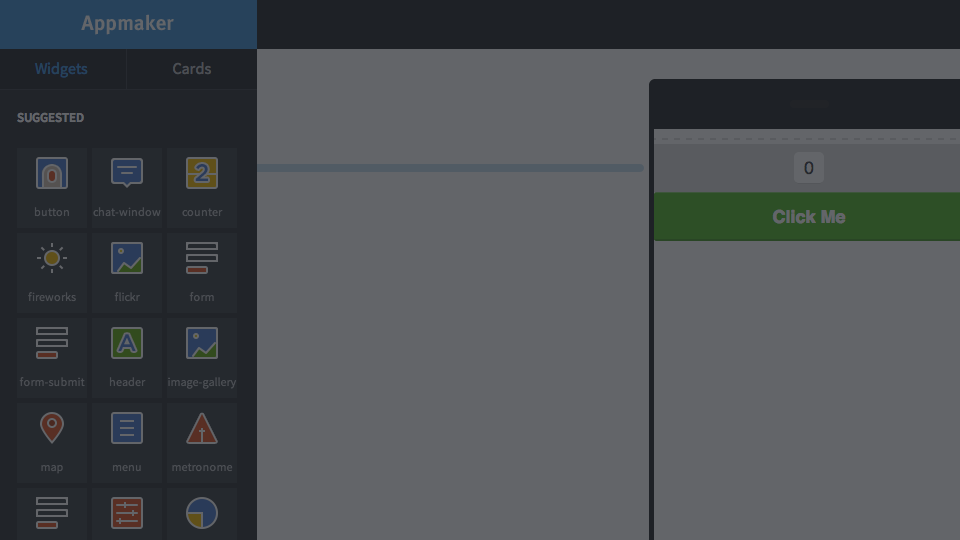
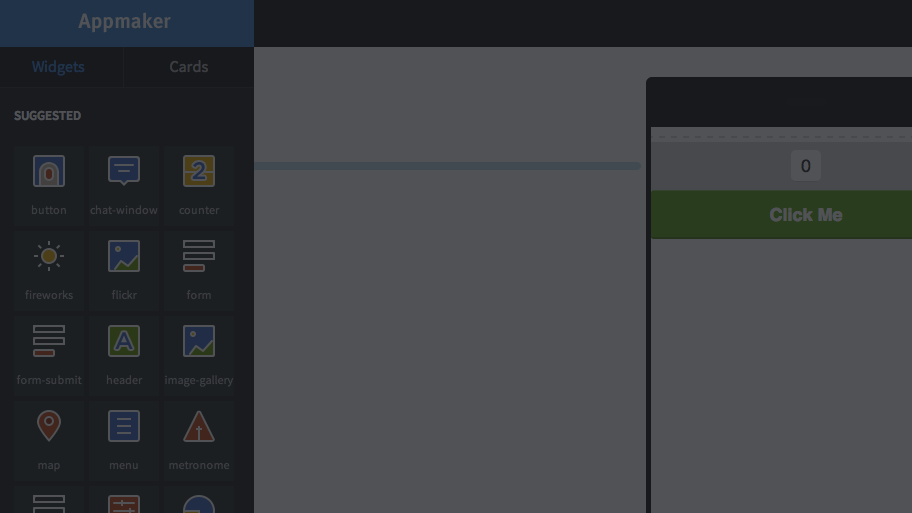
centering image

diff --git a/public/stylesheets/tutorial.css b/public/stylesheets/tutorial.css
@@ -34,7 +34,7 @@ body {
   height: 513px;
   border: 1px solid #181b1f;
   background-image: url(/images/vid2.png);
-  background-position: left top;
+  background-position: center;
   display: -webkit-box;   /* OLD: Safari,  iOS, Android browser, older WebKit browsers.  */
   display: -moz-box;      /* OLD: Firefox (buggy) */
   display: -ms-flexbox;   /* MID: IE 10 */
